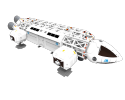
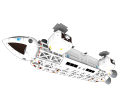
vaisseau animation

Changed region(s): [[0.0, 0.15, 0.984, 0.87]]

diff --git a/OE_vueSysteme.py b/OE_vueSysteme.py
@@ -176,15 +176,13 @@ class VueSysteme(Perspective):
     def chargeimages(self):
         for x in range(0,361):
             im = Image.open("./images/colonisateur.png")
-            
-            tag = ("colonisateur"+str(x))
-            self.images[tag] = ImageTk.PhotoImage(im.rotate(-x)) 
-        for x in range(0,361):
+            self.images[("colonisateur"+str(x))] = ImageTk.PhotoImage(im.rotate(-x)) 
             im = Image.open("./images/chasseur.png")
             self.images[("chasseur"+str(x))] = ImageTk.PhotoImage(im.rotate(-x)) 
-        self.images["tank"] = ImageTk.PhotoImage(im)  
-        im = Image.open("./images/vaisseauMere.png")
-        self.images["mere"] = ImageTk.PhotoImage(im)    
+            im = Image.open("./images/vaisseauTank.png")
+            self.images[("tank"+str(x))] = ImageTk.PhotoImage(im.rotate(-x))  
+            im = Image.open("./images/vaisseauMere.png")
+            self.images[("mere"+str(x))] = ImageTk.PhotoImage(im.rotate(-x))    
 
     def afficherpartie(self,mod):
         self.canevas.delete("artefact")
@@ -204,18 +202,7 @@ class VueSysteme(Perspective):
    
                         angle = int(math.degrees(j.angleinverse))
 
-                        
-                        if isinstance(j,VaisseauChasseur):
-                            tag =("chasseur"+str(angle))
-                            im=self.parent.modes["systemes"][j.idSysteme].images[tag]
-                            self.parent.modes["systemes"][j.idSysteme].canevas.create_image(x,y,image=im, tags = (j.proprietaire,"vaisseauinterstellaire",j.id,"artefact",x,y,"chasseur") )
-
-                        if isinstance(j,VaisseauColonisation) :
-                            tag =("colonisateur"+str(angle))
-                            im=self.parent.modes["systemes"][j.idSysteme].images[tag]     
-                            self.parent.modes["systemes"][j.idSysteme].canevas.create_image(x,y,image=im, tags = (j.proprietaire,"vaisseauinterstellaire",j.id,"artefact",x,y,"colonisateur") )  
-
-                        
+                                        
                         if (isinstance(j, VaisseauChasseur)):
                             jx=j.x*e
                             jy=j.y*e
@@ -232,11 +219,24 @@ class VueSysteme(Perspective):
                            # self.canevas.create_line(x1,y1,x2,y2,fill="red",width=2,
                             #                         tags=(j.proprietaire,"vaisseauinterstellaire",j.id,"artefact"))
                             
+                        if isinstance(j,VaisseauChasseur):
+                            tag =("chasseur"+str(angle))
+                            im=self.parent.modes["systemes"][j.idSysteme].images[tag]
+                            self.parent.modes["systemes"][j.idSysteme].canevas.create_image(x,y,image=im, tags = (j.proprietaire,"vaisseauinterstellaire",j.id,"artefact",x,y,"chasseur") )
+
+                        elif isinstance(j,VaisseauColonisation) :
+                            tag =("colonisateur"+str(angle))
+                            im=self.parent.modes["systemes"][j.idSysteme].images[tag]     
+                            self.parent.modes["systemes"][j.idSysteme].canevas.create_image(x,y,image=im, tags = (j.proprietaire,"vaisseauinterstellaire",j.id,"artefact",x,y,"colonisateur") )  
+
+        
                         elif isinstance(j, VaisseauTank) :
-                            im=self.parent.modes["systemes"][j.idSysteme].images["tank"]
+                            tag =("tank"+str(angle))
+                            im=self.parent.modes["systemes"][j.idSysteme].images[tag]
                             self.parent.modes["systemes"][j.idSysteme].canevas.create_image(x,y,image=im, tags = (j.proprietaire,"vaisseauinterstellaire",j.id,"artefact",x,y,"tank") )
                         elif isinstance(j, VaisseauMere) :
-                            im=self.parent.modes["systemes"][j.idSysteme].images["mere"]
+                            tag =("mere"+str(angle))
+                            im=self.parent.modes["systemes"][j.idSysteme].images[tag]
                             self.parent.modes["systemes"][j.idSysteme].canevas.create_image(x,y,image=im, tags = (j.proprietaire,"vaisseauinterstellaire",j.id,"artefact",x,y,"mere") )
 
                         
